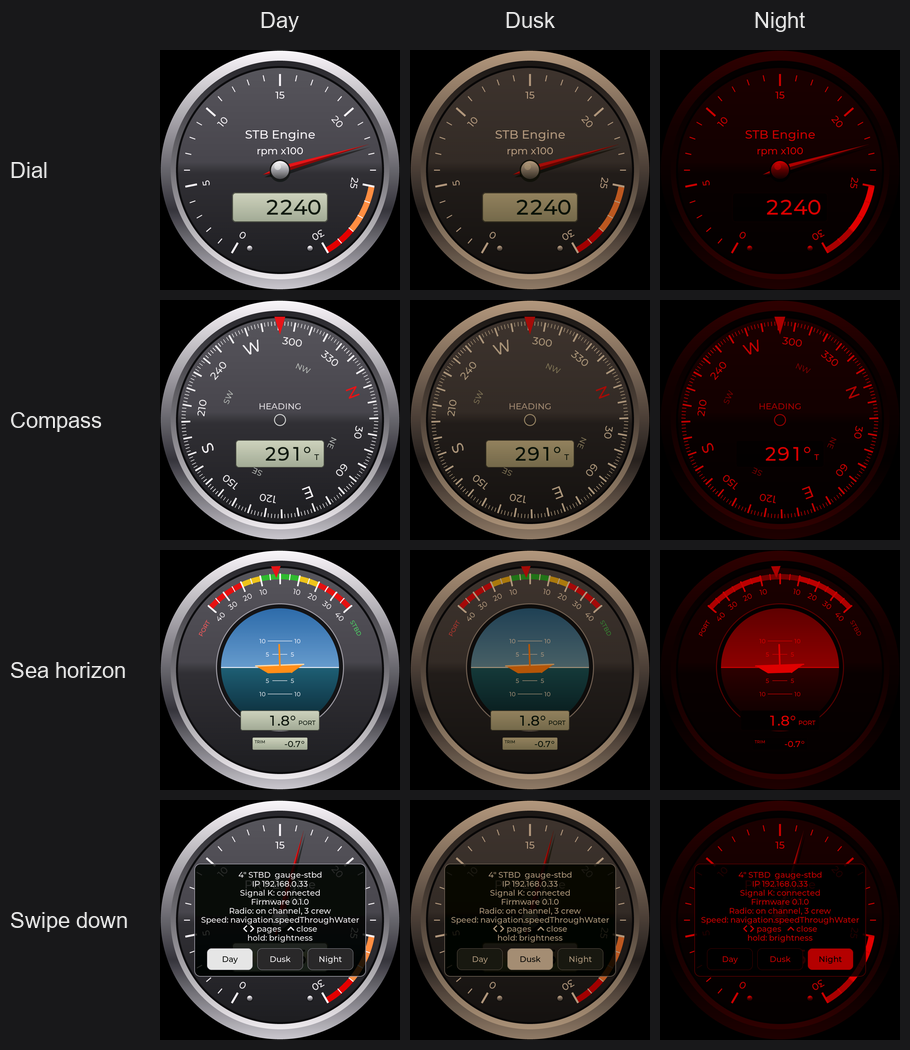
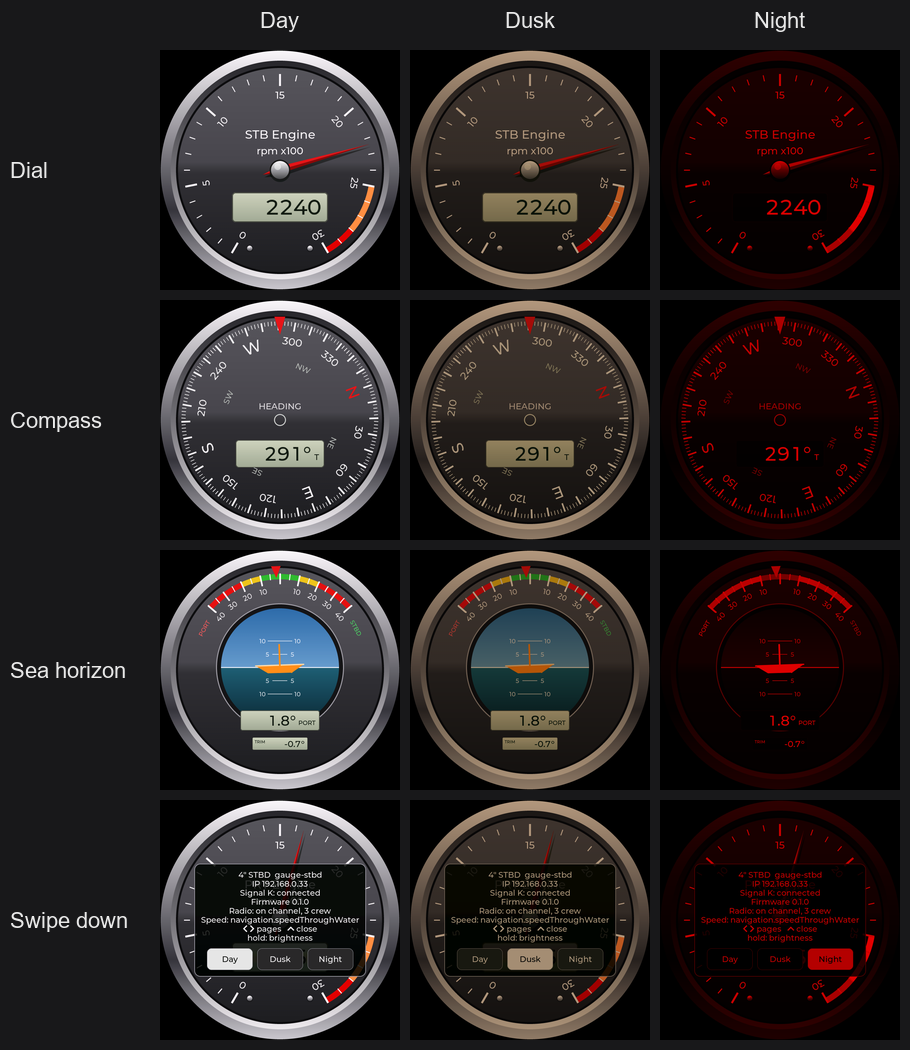
Night sea horizon: a dim sky over a black sea; docs brought up to date
At night the light blue sky became a large bright red disc in which the
horizon line and the boat were lost. Of three renders (as it was, a dim
sky, lines only) the dim one: the sky dark, brightest at the horizon, over
a sea close to black, so the line, the ladder and the boat carry the
reading and sky and sea still stay apart.

Docs: the README's introduction, BRINGUP's first power-up check (the
colour buttons, the switch from Signal K), PAGES (the night look), the
picture of the three modes, and the build-flash skill's USB ports (each
board has both kinds; it said one each).

Changed region(s): [[0.7692, 0.579, 0.9231, 0.6705]]

diff --git a/common/src/ui/attitude_gauge.cpp b/common/src/ui/attitude_gauge.cpp
@@ -45,6 +45,14 @@ constexpr uint32_t kSkyHorizon = 0x9CCBEA;
 constexpr uint32_t kSeaTop = 0x1E5E72;
 constexpr uint32_t kSeaBottom = 0x0A2630;
 constexpr uint32_t kBoatSymbol = 0xFF8C1A;
+// At night (before ink() makes them red): a dim sky, brightest at the
+// horizon, over a sea close to black. Day's light blue sky would be the
+// largest bright area on the screen; the horizon line, the ladder and the
+// boat carry the reading, and the two halves stay apart.
+constexpr uint32_t kNightSkyTop = 0x34343A;
+constexpr uint32_t kNightSkyHorizon = 0x707078;
+constexpr uint32_t kNightSeaTop = 0x303036;
+constexpr uint32_t kNightSeaBottom = 0x101014;
 
 constexpr float kHeelLcdY = 0.42f;
 constexpr float kHeelLcdW = 0.66f;
@@ -176,10 +184,14 @@ void AttitudeGaugePage::draw_window(lv_layer_t* layer) const {
   const float hy = g_.cy + g_.pxf(kDiscY);
   const float rd = g_.pxf(kDiscRadius);
   const float px_per_deg = g_.pxf(kPitchPxPerDeg);
+  const bool night = colour_mode() == ColourMode::kNight;
+  const uint32_t sea_top = night ? kNightSeaTop : kSeaTop;
+  const uint32_t sea_bottom = night ? kNightSeaBottom : kSeaBottom;
 
   // Sky: the whole disc.
   {
-    const uint32_t c[] = {kSkyTop, kSkyHorizon};
+    const uint32_t c[] = {night ? kNightSkyTop : kSkyTop,
+                          night ? kNightSkyHorizon : kSkyHorizon};
     const uint8_t f[] = {0, 255};
     draw_circle_grad(layer, (int32_t)hx, (int32_t)hy, (int32_t)rd, c, f, 2);
   }
@@ -192,7 +204,7 @@ void AttitudeGaugePage::draw_window(lv_layer_t* layer) const {
     const float dy = (float)y + 0.5f - hy;
     const float half = sqrtf(fmaxf(0.0f, rd * rd - dy * dy));
     if (half < 0.5f) continue;
-    row.bg_color = lerp_color(kSeaTop, kSeaBottom, dy / rd);
+    row.bg_color = lerp_color(sea_top, sea_bottom, dy / rd);
     lv_area_t a = {(int32_t)lroundf(hx - half), y,
                    (int32_t)lroundf(hx + half) - 1, y};
     lv_draw_rect(layer, &row, &a);

diff --git a/docs/BRINGUP.md b/docs/BRINGUP.md
@@ -143,7 +143,9 @@ Warnings worth knowing:
    yet. This is right.
 2. Swipe left and right: every page comes up; a short toast names it.
 3. Swipe down: the info box shows the device, its IP address, the Signal K
-   connection state and the page's path. Swipe up or tap to close.
+   connection state and the page's path, and under it the Day / Dusk /
+   Night buttons. Tap Night: the page turns red on black after a moment;
+   tap Day to go back. Swipe up or tap outside the buttons to close.
 4. Long press: the backlight steps 100 → 60 → 30 → 10 %.
 5. The small dot at the bottom of the bezel is the status: it turns blue,
    with a brief blink each second, once connected to Signal K.
@@ -152,7 +154,10 @@ Warnings worth knowing:
 
 In the Signal K admin UI: **Security → Access Requests**, approve the
 device (named after its hostname, e.g. `gauge-4c-stbd`; read access is
-enough). The dot turns blue and the needles start to move.
+enough). The dot turns blue and the needles start to move. With
+signalk-derived-data's Sun calculation on, the colour mode then follows
+the sun by itself (the serial log says `Colour mode ... (Signal K)` at
+each change; [PAGES.md](PAGES.md#day-dusk-and-night)).
 
 ## 6. Check the readings
 

diff --git a/.claude/skills/build-flash/SKILL.md b/.claude/skills/build-flash/SKILL.md
@@ -49,11 +49,15 @@ If an OTA upload fails:
 
 ## Phase 3: Monitor and Configure
 
-1. `pio device monitor` from the project folder (2.1": CH343 UART; 4": USB
-   Serial/JTAG on the USB-C port).
+1. `pio device monitor` from the project folder, on whichever USB port is
+   plugged in: each board has both the chip's own USB Serial/JTAG
+   (VID 303A) and a CH343 UART (VID 1A86). `pio device list` tells them
+   apart; on 2026-11-14 the 4" units were on their CH343, the 2.1" on USB
+   Serial/JTAG. An upload checks the chip type before writing anything.
 2. Interpret the output: display init, WiFi, Signal K connection, crashes
    (`esp32_exception_decoder` symbolises backtraces).
-3. On the screen: the gauge appears with dashes; a swipe down shows the IP and the
+3. On the screen: the gauge appears with dashes; a swipe down shows the IP,
+   the Day / Dusk / Night buttons and the
    Signal K state; the bezel dot is SensESP's status LED.
 4. A unit without WiFi credentials in `secrets.h` raises SensESP's access
    point named after its hostname (password `SECRET_AP_PASSWORD`, or

diff --git a/docs/JOURNAL.md b/docs/JOURNAL.md
@@ -1657,7 +1657,13 @@ mode over about a hundred colours, not three palettes to keep in step.
   the brightest areas on the screen, so at night those two take their own
   colours: a dark steel bezel (`draw_steel_bezel()`) and lit digits on a
   dark window (`lcd_colours()`). Zones lose their hues at night (a brighter
-  red band); the sea horizon's sky is still a large red area.
+  red band). The sea horizon's light blue sky came out as a large bright
+  red disc in which the horizon line and the boat were lost; of three
+  renders (as it was, a dim sky, lines only) the dim one was chosen: at
+  night the sky is dark, brightest at the horizon, over a sea close to
+  black (`attitude_gauge.cpp`), so the line, the ladder and the boat carry
+  the reading and sky and sea still stay apart. All four units run it
+  (flashed over USB the same afternoon).
 
 The swipe-down box moved from `gauge_ui.cpp` into `ui/info_box.*` (pure
 LVGL) so the preview draws it: the info text, and under it Day / Dusk /

diff --git a/README.md b/README.md
@@ -5,7 +5,10 @@ displays. Each device shows one page at a time and you swipe between them.
 The pages are yours to define in the web UI, like gauge widgets in SKip: you
 choose how many to swipe through (1–12), and each is a steel dial (rpm, temperature, speed, any number), a compass
 card or a sea-horizon heel/trim indicator, with its own title, Signal K path,
-unit and scale; the coloured zones come from the Signal K server. Data comes
+unit and scale; the coloured zones come from the Signal K server. Every page
+comes in day, dusk and night colours (red on black), chosen on the unit or
+following the sun through Signal K
+([docs/PAGES.md](docs/PAGES.md#day-dusk-and-night)). Data comes
 from a Signal K server through
 [SensESP](https://github.com/SignalK/SensESP); the look follows the
 "Classic Steel" gauges of [SKIP](https://github.com/halos-org/skip).

diff --git a/docs/PAGES.md b/docs/PAGES.md
@@ -51,9 +51,10 @@ mode in use lit.
 - **Day**: the classic steel look.
 - **Dusk**: the same pages dimmer and warmer. Every colour still reads as
   itself: a yellow zone stays yellow, a red one red.
-- **Night**: red on black, for eyes used to the dark. The bezel is dark and
-  the LCDs show lit digits on a dark window, so the brightest things on
-  the screen are the markings, the needle and the digits. Zones are a
+- **Night**: red on black, for eyes used to the dark. The bezel is dark,
+  the LCDs show lit digits on a dark window and the sea horizon's sky is
+  dim over a black sea, so the brightest things on the screen are the
+  markings, the needle, the horizon line and the digits. Zones are a
   brighter red band, not colours: in an alarm zone, read where the needle
   is.
 
